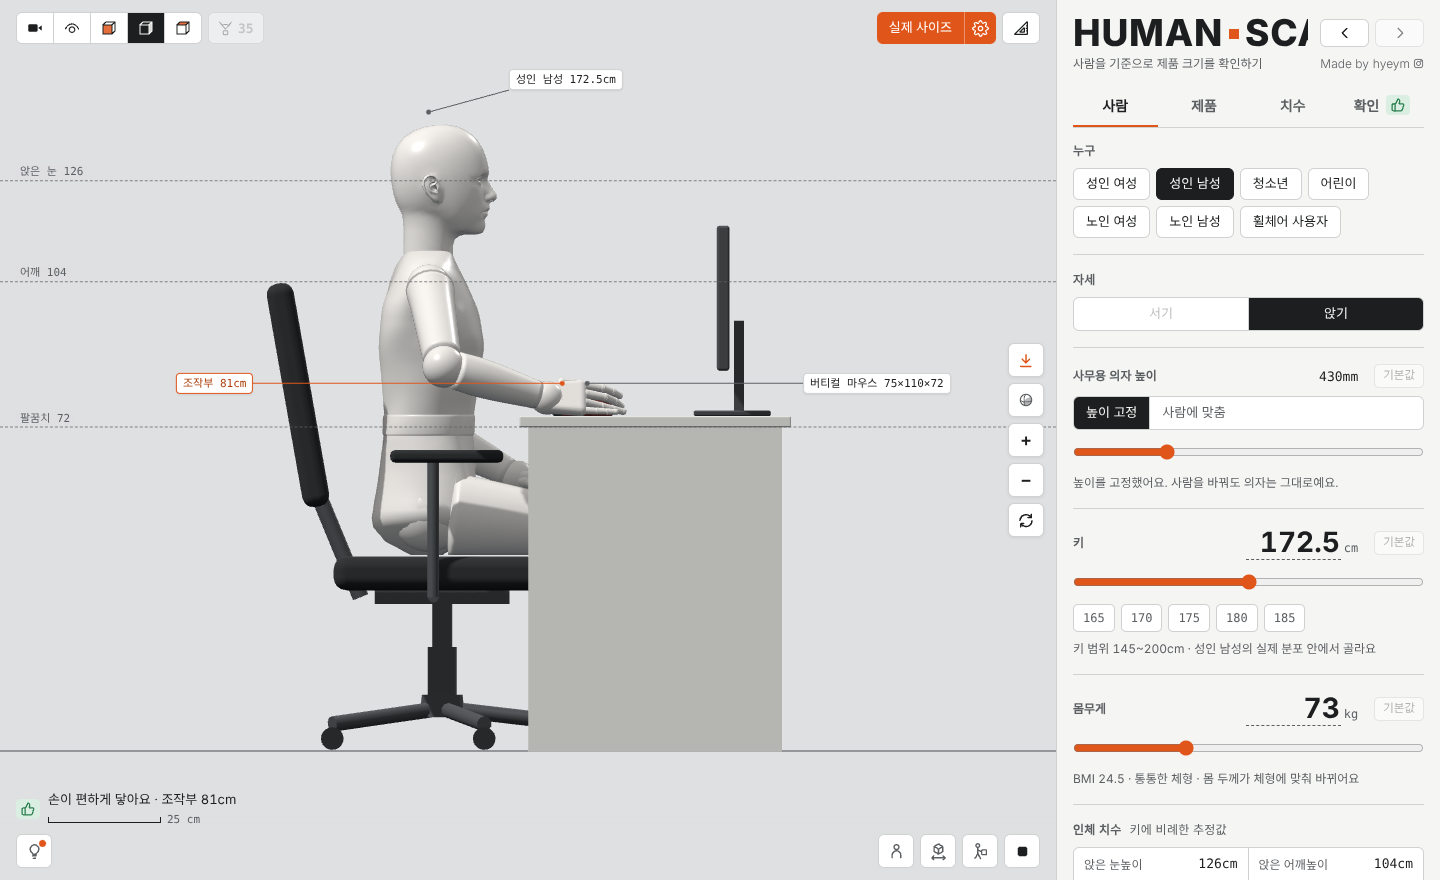
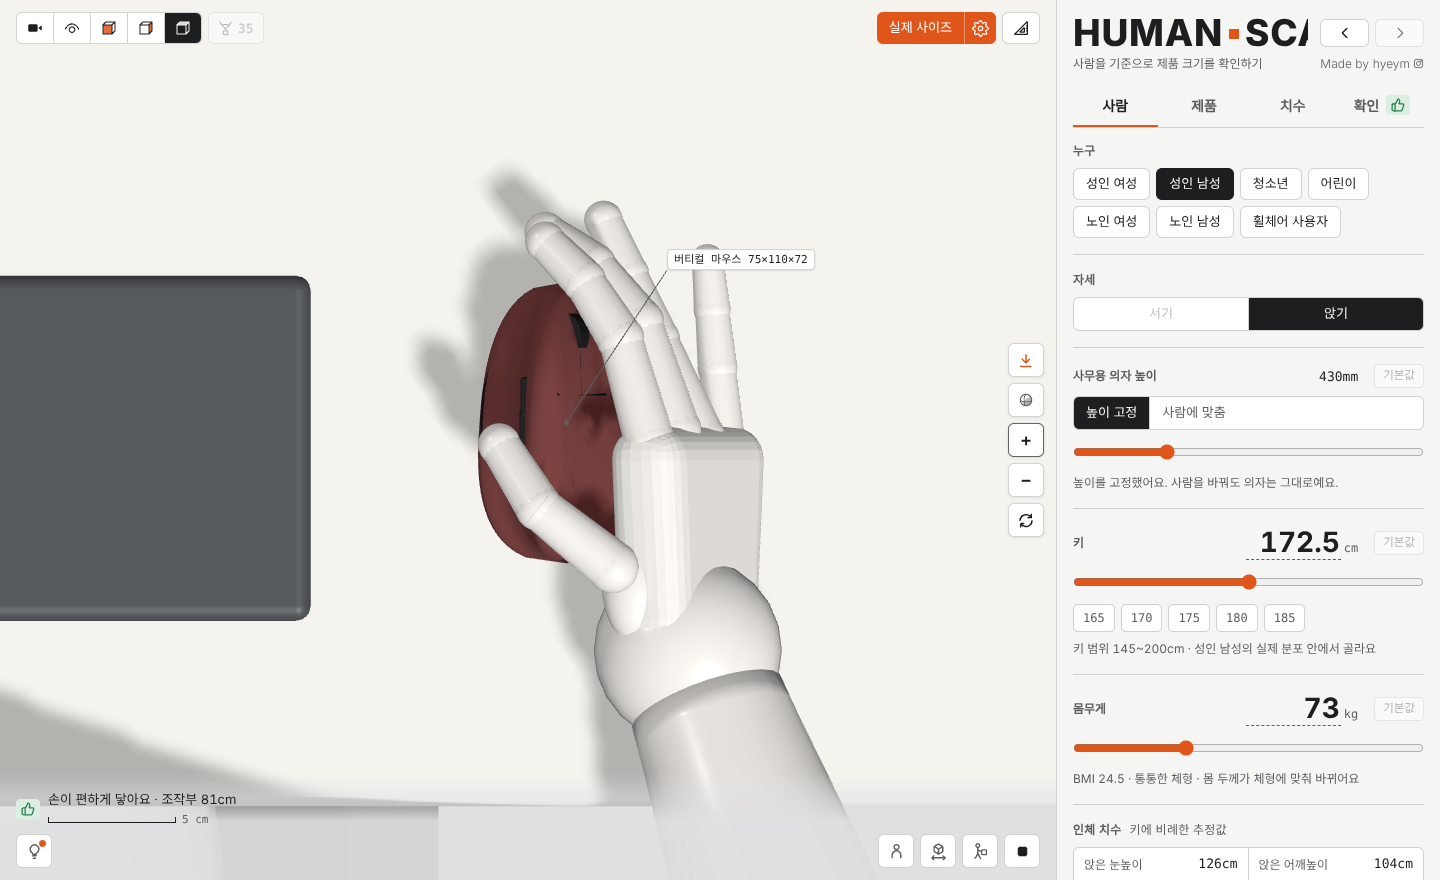
README: vertical mouse from above, closer
Claude-Session: https://claude.ai/code/session_01HYNQ1d4u3j94KdSMHWKsoz

diff --git a/README.md b/README.md
@@ -22,7 +22,7 @@
 | ![노트북을 쓰는 성인 여성](docs/01-laptop-desk.png) | ![A4 책을 펼친 어린이](docs/02-child-book.png) |
 | 책상에서 노트북 사용 — 높이·거리 점검 | 어린이가 A4 책을 펼쳐 읽는 모습 |
 | ![버티컬 마우스를 쥔 손](docs/03-vertical-mouse.png) | ![휠체어 사용자와 조리대 위 전자레인지](docs/04-wheelchair-counter.png) |
-| 버티컬 마우스 쥐기 — 옆에서 본 모습 | 휠체어 사용자의 전자레인지 사용 — 닿는 높이 점검 |
+| 버티컬 마우스 쥐기 — 위에서 본 모습 | 휠체어 사용자의 전자레인지 사용 — 닿는 높이 점검 |
 | ![1인칭으로 본 스마트폰](docs/05-first-person.png) | |
 | 사용자의 눈으로 본 1인칭 시점 | |
 
